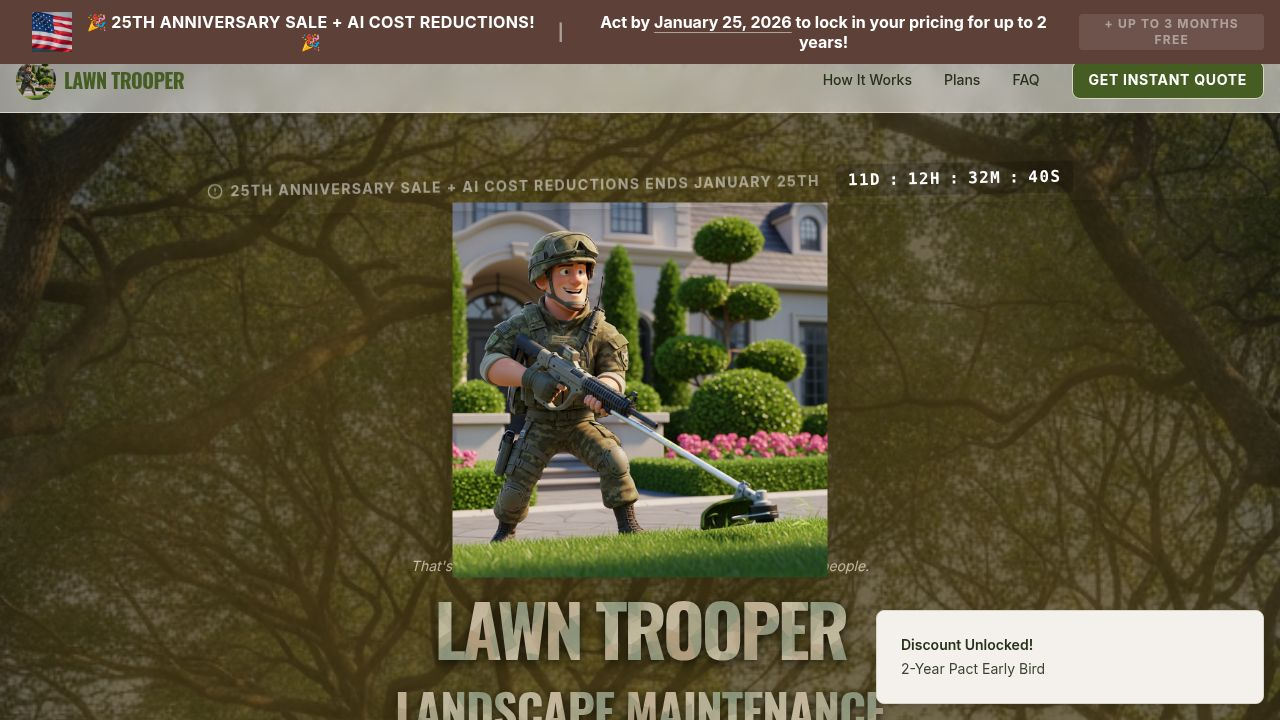
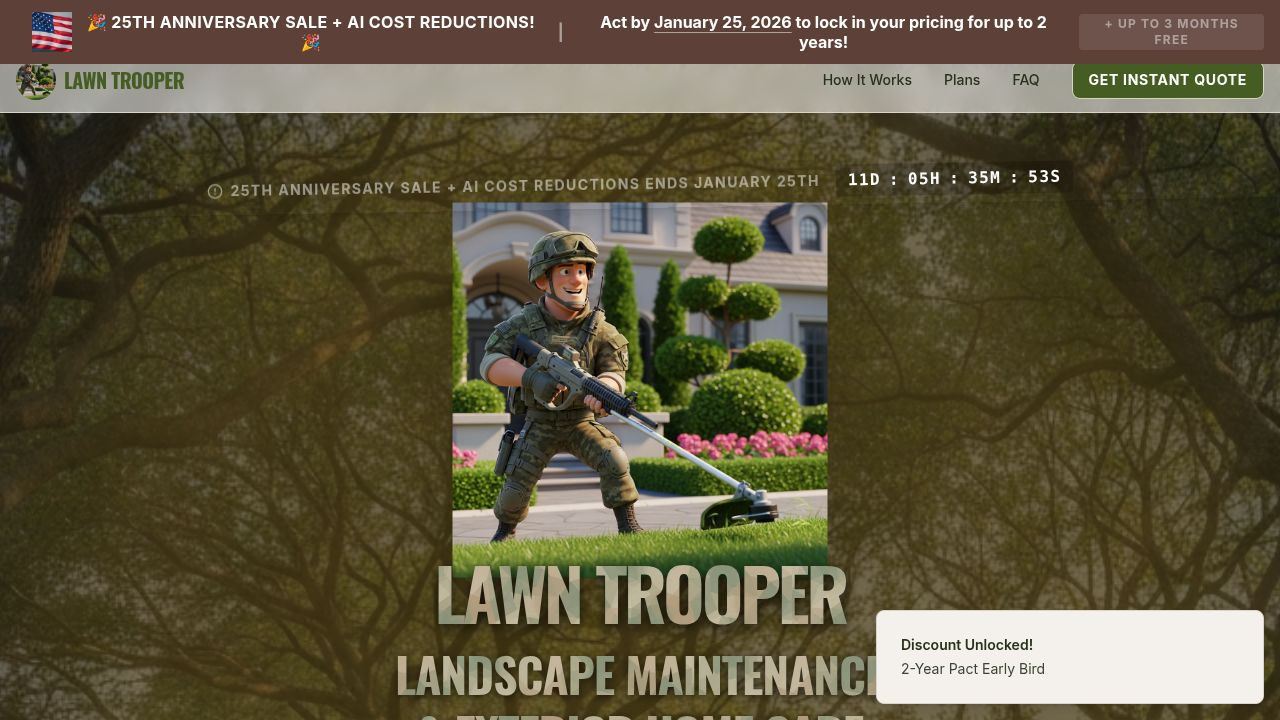
Update hero image and remove controversial text from landing page
Replaced the hero mascot image with a new one featuring a battery-powered trimmer and removed the conditional text "That's not a weapon — it's a weed eater. We fight weeds, not people." from the landing page component (`home.tsx`).

Replit-Commit-Author: Agent
Replit-Commit-Session-Id: 1e815e85-bfed-4270-8d21-08fd20edc0cc
Replit-Commit-Checkpoint-Type: intermediate_checkpoint
Replit-Commit-Event-Id: 15cd3167-7255-4ca7-9ea4-b06d3e6cb1ae
Replit-Commit-Screenshot-Url: https://storage.googleapis.com/screenshot-production-us-central1/272d6f3a-6d6e-4d82-9048-783487746b88/1e815e85-bfed-4270-8d21-08fd20edc0cc/V13L8zs
Replit-Helium-Checkpoint-Created: true

diff --git a/client/src/pages/home.tsx b/client/src/pages/home.tsx
@@ -38,7 +38,7 @@ import { FEATURE_FLAGS } from "@/config/featureFlags";
 
 // Assets
 import heroBg from "@assets/generated_images/manicured_lawn_with_mower_stripes.png";
-import heroMascot from "@assets/generated_images/camo_soldier_mascot_weedeating.png";
+import heroMascot from "@assets/generated_images/soldier_mascot_with_battery_trimmer.png";
 import camoPattern from "@assets/generated_images/subtle_camo_texture_background.png";
 import heroDiverseCrew from "@assets/generated_images/black_woman_waving_from_porch.png";
 import heroFlag from "@assets/generated_images/wavy_american_flag.png";
@@ -237,9 +237,6 @@ export default function LandingPage() {
           >
             <div className="absolute inset-0 bg-accent/20 blur-3xl rounded-full transform scale-150 pointer-events-none"></div>
             <img src={mascotLogo} alt="Cartoon lawn-care professional holding a weed trimmer" className="w-full object-contain relative z-10 drop-shadow-2xl max-h-[300px] mb-4 scale-125" />
-            {FEATURE_FLAGS.enableFBCompliantHeroCopy && (
-              <p className="text-white/70 text-sm italic mt-2">That's not a weapon — it's a weed eater. We fight weeds, not people.</p>
-            )}
             
             {/* Big Intimidating Camo Banner */}
             <div className="mt-4 relative z-20 w-full">
